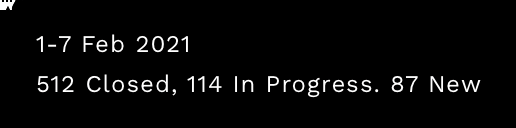
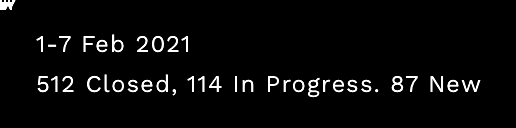
Open Raven demo: cursor enters from the right, faster; brighten tooltip text 30%
Claude-Session: https://claude.ai/code/session_01KNEX4DpawmcoqxqKufJw7L

diff --git a/components/portfolio.tsx b/components/portfolio.tsx
@@ -442,12 +442,12 @@ function OpenRavenOperationsDemo({attributes}:{attributes:Record<string,unknown>
     const cursor=stage.querySelector<HTMLElement>('.or-cursor');
     const tooltip=stage.querySelector<HTMLElement>('.or-tooltip');
     if(!cursor || !tooltip)return;
-    const travel=3200,tooltipDelay=travel+250;
-    // The cursor drifts in from the table below, curves up, and settles on the February bar.
+    const travel=1800,tooltipDelay=travel+150;
+    // The cursor slides in from the right edge and settles on the February bar.
     const move=cursor.animate([
-      {left:'60%',top:'74%',opacity:0,offset:0},
-      {opacity:1,offset:.12},
-      {left:'73%',top:'48%',offset:.62},
+      {left:'99%',top:'38%',opacity:0,offset:0},
+      {opacity:1,offset:.15},
+      {left:'88%',top:'34%',offset:.6},
       {left:'80.83%',top:'30.27%',opacity:1,offset:1},
     ],{duration:travel,easing:'cubic-bezier(.45,.05,.25,1)',fill:'both'});
     const reveal=tooltip.animate([
